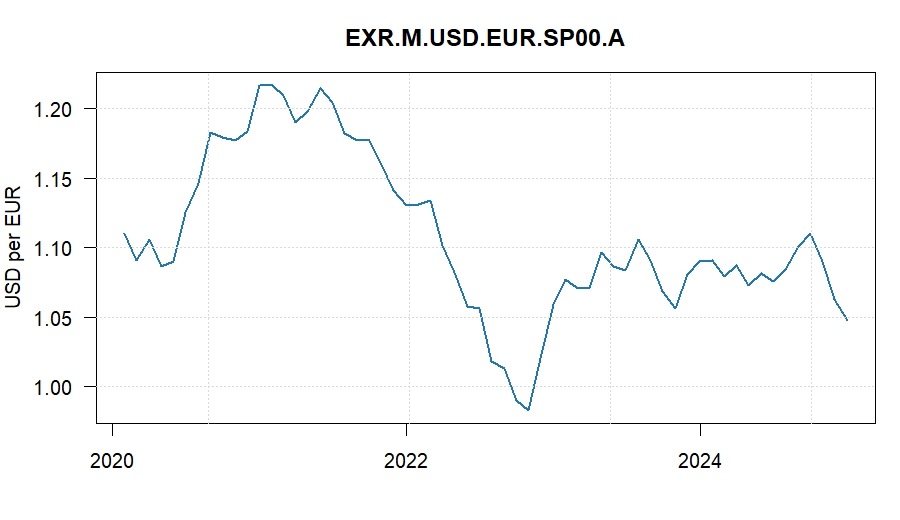
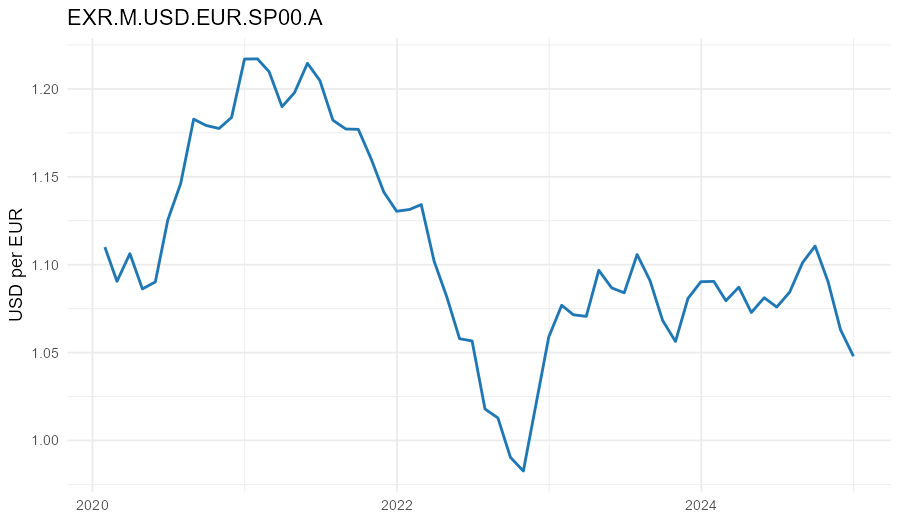
Use ggplot2 for README sample chart

diff --git a/README.md b/README.md
@@ -33,6 +33,7 @@ use `ws_set_api_key("your-api-key")`.
 
 ```r
 library(r2webstat)
+library(ggplot2)
 
 # Optional: use your own key instead of the package fallback
 # ws_save_api_key("your-api-key")
@@ -52,19 +53,18 @@ obs <- ws_observations(
 )
 
 df <- data.frame(
-  date = as.Date(vapply(obs, function(x) x[["time_period_end"]], character(1))),
-  value = as.numeric(vapply(obs, function(x) x[["obs_value"]], numeric(1)))
+  date = as.Date(sapply(obs, \(x) x$time_period_end)),
+  value = as.numeric(sapply(obs, \(x) x$obs_value))
 )
 
-plot(
-  df$date,
-  df$value,
-  type = "l",
-  lwd = 2,
-  xlab = "",
-  ylab = "USD per EUR",
-  main = "EXR.M.USD.EUR.SP00.A"
-)
+ggplot(df, aes(date, value)) +
+  geom_line(linewidth = 0.8, colour = "#1f77b4") +
+  labs(
+    title = "EXR.M.USD.EUR.SP00.A",
+    x = NULL,
+    y = "USD per EUR"
+  ) +
+  theme_minimal()
 
 # Create an export URL
 url <- ws_export_url(
